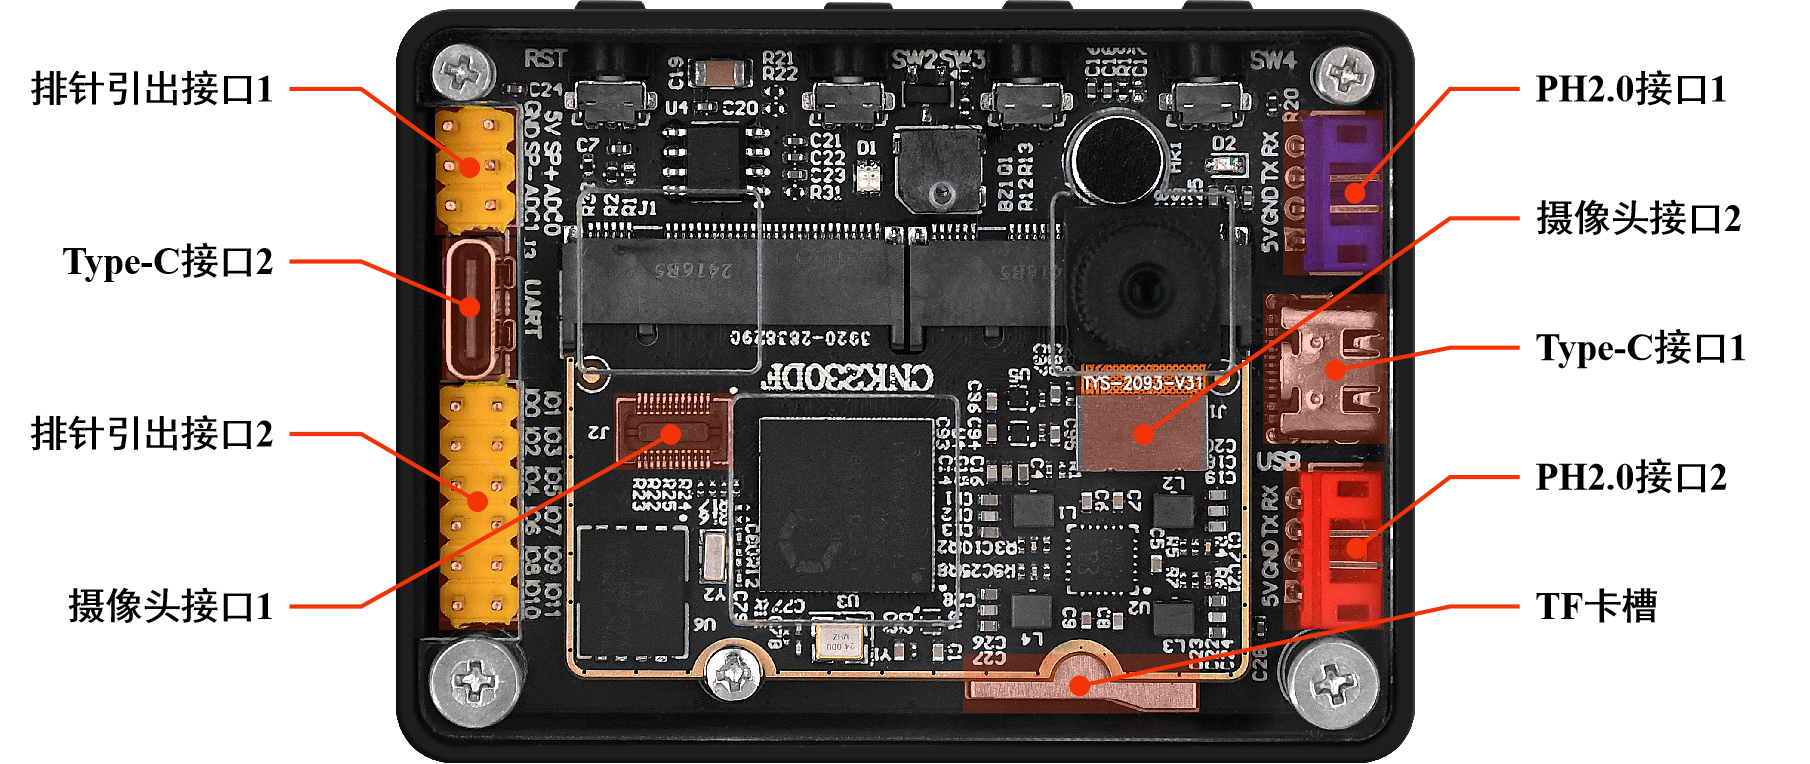
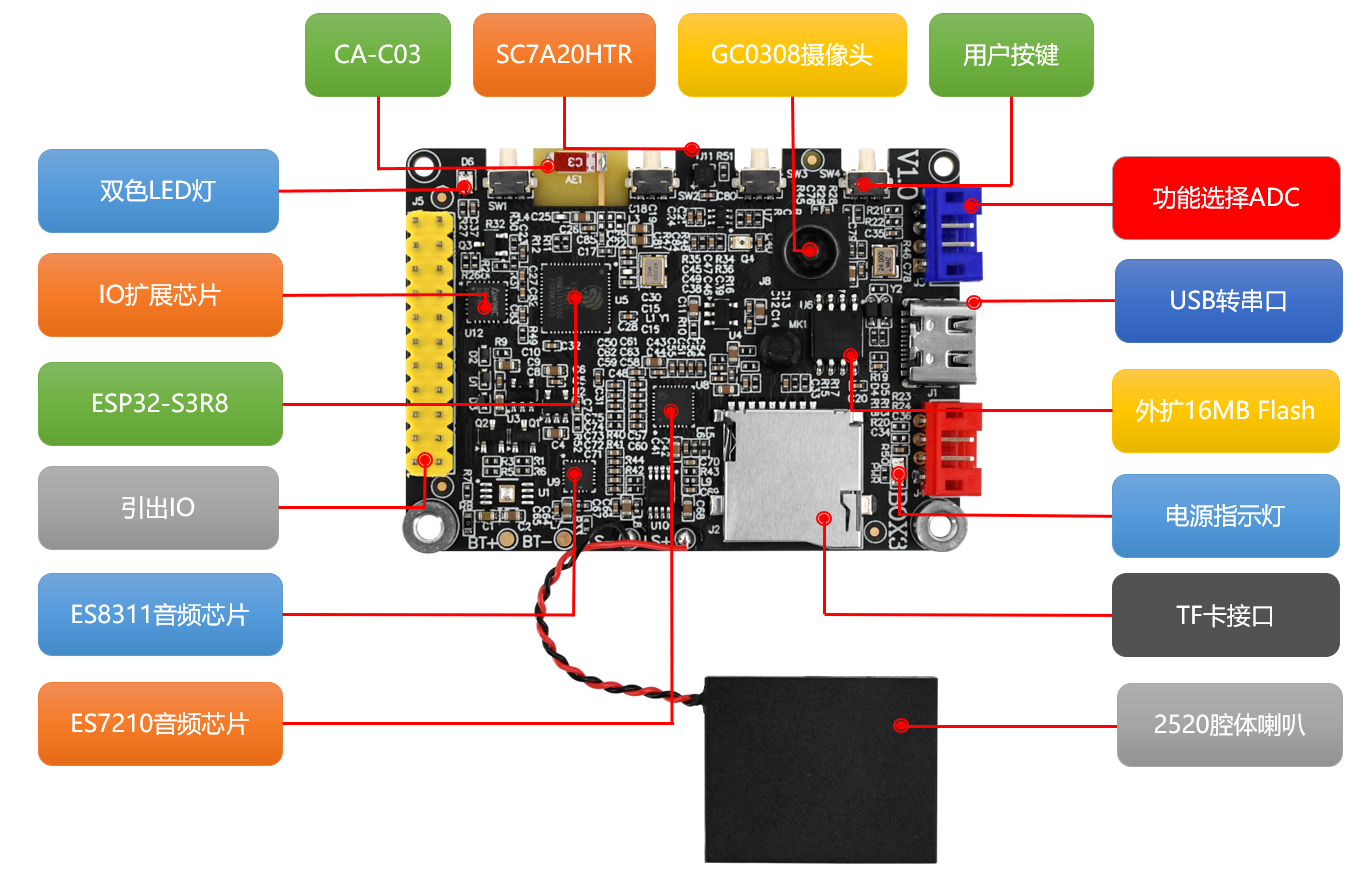
feat:新增硬件资源分布图与硬件资源介绍

diff --git a/start-guide/dnesp32s3-box3-introduction.md b/start-guide/dnesp32s3-box3-introduction.md
@@ -1,6 +1,7 @@
 ---
 title: 'DNESP32S3 BOX3 介绍'
 sidebar_position: 3
+
 ---
 
 # DNESP32S3 BOX3介绍
@@ -21,28 +22,43 @@ DNESP32S3 BOX3整理小巧、美观，其与其内部的底板的三维尺寸如
 | -------------- | ----- | ----- | ----- |
 | DNESP32S3 BOX3 | 64.30 | 47.60 | 15.40 |
 
-## 接口介绍
+## DNESP32S3 BOX3 硬件基本参数
 
-DNESP32S3 BOX3引出了多种接口，方便用户开发和使用
+DNESP32S3 BOX3 硬件基本参数如表所示：
 
-| 接口                       | 描述                                                                         |
-| ------------------------ | -------------------------------------------------------------------------- |
-| Type-C 接口1               | 支持 USB OTG（默认为 Device ）<br />主要用于设备的电源供给以及进行 USB 通讯<br />VSCode 使用该接口与设备连接 |
-| 排针引出接口2                  | 共引出 22 个 GPIO <br />均已做等长处理                                                |
-| 摄像头接口1                   | 分别连接至 DNESP32S3 BOX3 的 摄像头电路，支持如下摄像头：<br />GC0308                          |
-| PH2.0 接口1<br />PH2.0 接口2 | 可对外 5V 供电，并支持 UART、IIC、GPIO 等外设功能<br />                                    |
-| TF 卡槽                    | 用于外接 TF 卡<br />连接至 DNESP32S3 BOX3 的 SD 接口                                  |
+| 项目   | 说明                 |
+| ---- | ------------------ |
+| 产品型号 | ATK-DNESP32S3B3 V1 |
+| 芯片   | ESP32S3-R8         |
+| 工作电压 | 5V（USB）            |
+| 工作电流 | 75mA~276mA（@5V）①   |
+| 工作温度 | 0℃~+70℃            |
 
-## 开发板硬件资源
+注①：75mA 对应 CPU 在复位情况下，裸板的工作电流； 276mA 对应 CPU 满负荷运行时的工作电流。
 
-| 硬件      | 描述                                                                              |
-| ------- | ------------------------------------------------------------------------------- |
-| 复位按键    | 用于对 ESP32S3 芯片进行硬件复位                                                            |
-| 用户按键*3  | 三个用户按键，从左到右依次定义为 KEY0、KEY1、KEY2<br />KEY0连接芯片的普通IO<br />KEY1以及KEY2分别连接至扩展IO扩展芯片 |
-| 触摸屏     | 2.4‘ 高分触摸显示屏（320*240）                                                           |
-| 双色 LED  | 使能后发出红光和/或蓝光<br />有效电平为低                                                        |
-| 咪头      | 作为 DNESP32S3 BOX3 模拟音频接口的音频输入源                                                  |
-| 腔体喇叭    | 作为 DNESP32S3 BOX3 模拟音频接口的音频输出源，额定阻抗8Ω，最大输入功率达1W                                 |
-| 音频功率放大器 | 用于将 DNESP32S3 BOX3 模拟音频接口的输出进行功率放大<br />在驱动 8Ω 扬声器的情况下，可提供高达 3W 的功率输出           |
+## DNESP32S3 BOX3 硬件资源分布
 
+DNESP32S3 BOX3搭载了丰富硬件外设，方便用户开发和使用，其硬件资源分布如下所示(资源介绍不分先后)：
+<img src={require('./img/dnesp32s3-box3-interface.png').default} alt="dnesp32s3 box3 show six back" width="1000" />
 
+| 资源            | 数量  | 说明                                                                         |
+| ------------- | --- | -------------------------------------------------------------------------- |
+| 主控 ESP32S3-R8 | 1个  | Xtensa® 32 位 LX7 双核处理器，主频高达 240MHz<br />384 KB ROM<br />512 KB SRAM        |
+| Flash芯片       | 1个  | 采用华邦的16MB芯片                                                                |
+| 电源指示灯（PWR）    | 1个  | 支持蓝色，上电后常亮                                                                 |
+| 0805红蓝双色LED灯  | 1个  | 支持红蓝双色                                                                     |
+| 复位按键          | 1个  | 用于芯片 & LCD 的复位                                                             |
+| 功能按键          | 3个  | K2（通过IO扩展芯片控制）<br />K1（通过IO扩展芯片控制）<br /> K0（通过主控芯片控制）                      |
+| 音频编解码芯片       | 2个  | ES8311用于输出，ES7210用于采集。该方案用于AEC回声消除（与小智对话可随时通过语音打断）                         |
+| 录音咪头（MIC）     | 1个  | 模拟麦克风，用于录音                                                                 |
+| 功放芯片          | 1个  | NS4150B，将音频信号放大后驱动扬声器发声                                                    |
+| 板载扬声器         | 1个  | 2520腔体喇叭，用于播放音乐或者视频声音                                                      |
+| IO扩展芯片        | 1个  | AW9523BTQR，用于扩展IO引脚                                                        |
+| 三轴传感器         | 1个  | SC7A20H，用于测量翻滚角、 俯仰角等数据                                                    |
+| LCD 接口        | 1个  | 可接正点原子 2.4 寸带触摸 LCD 模块                                                     |
+| Type-C 接口     | 1个  | 支持 USB OTG（默认为 Device ）<br />主要用于设备的电源供给以及进行 USB 通讯<br />VSCode 使用该接口与设备连接 |
+| 排针引出接口        | 1个  | 共引出 22 个 GPIO，均已做等长处理                                                      |
+| 摄像头接口         | 1个  | 分别连接至 DNESP32S3 BOX3 的 摄像头电路，支持如下摄像头：GC0308                                |
+| PH2.0 接口      | 2个  | 可对外 5V 供电，并支持 UART、IIC、GPIO 等外设功能<br />                                    |
+| TF 卡槽         | 1个  | 用于外接 TF 卡<br />连接至 DNESP32S3 BOX3 的 SD 接口                                  |
+| 板载天线          | 1个  | CA-C03 <br />用于释放热点信号与连接WiFi                                               |

diff --git a/example-extension-routine/wifi-mqtt-aliyun.md b/example-extension-routine/wifi-mqtt-aliyun.md
@@ -80,7 +80,7 @@ WIFI MQTT ALIYUN
 :::info[例程功能与硬件资源]
 
 lwIP 连接阿里云实现数据上传至阿里云服务器。
-<br />1，LED(RED) - IO4
+<br />1，LED(RED) - IO1_1
 <br />2，正点原子 2.4 寸LCD屏幕
 <br />3，ESP32-S3 内部 WiFi
 

diff --git a/example-extension-routine/wifi-sta.md b/example-extension-routine/wifi-sta.md
@@ -28,7 +28,7 @@ WIFI STA
 :::info[例程功能与硬件资源]
 
 扫描附近的 WIFI 信号，并连接到一个真实存在的 WIFI 热点。
-<br />1，LED(RED) - IO4
+<br />1，LED(RED) - IO1_1
 <br />2，正点原子 2.4 寸LCD屏幕
 <br />3，ESP32-S3 内部 WiFi
 

diff --git a/example-extension-routine/wifi-tcpclient.md b/example-extension-routine/wifi-tcpclient.md
@@ -36,7 +36,7 @@ WIFI TCPCLIENT
 :::info[例程功能与硬件资源]
 
 本实验主要通过 Socket 编程接口实现了一个 TCPClient 客户端。这个客户端具有以下功能：首先，可以通过按键发送 TCPClient 数据发送至服务器。其次，能够接收服务器发送的数据。最后，实时将接收到的数据显示在 LCD 屏幕上。
-<br />1，LED(RED) - IO4
+<br />1，LED(RED) - IO1_1
 <br />2，正点原子 2.4 寸LCD屏幕
 <br />3，ESP32-S3 内部 WiFi
 

diff --git a/example-extension-routine/wifi-tcpserver.md b/example-extension-routine/wifi-tcpserver.md
@@ -38,7 +38,7 @@ WIFI TCPCLIENT
 :::info[例程功能与硬件资源]
 
 本实验主要通过 Socket 编程接口实现了一个 TCPServer 服务器。这个客户端具有以下功能：首先，可以通过按键发送 TCPServer 数据发送至客户端。其次，能够接收客户端发送的数据。最后，实时将接收到的数据显示在 LCD 屏幕上。
-<br />1，LED(RED) - IO4
+<br />1，LED(RED) - IO1_1
 <br />2，正点原子 2.4 寸LCD屏幕
 <br />3，ESP32-S3 内部 WiFi
 

diff --git a/example-extension-routine/wifi-udp.md b/example-extension-routine/wifi-udp.md
@@ -36,7 +36,7 @@ WIFI UDP
 :::info[例程功能与硬件资源]
 
 本实验主要通过 Socket 编程接口实现了一个 UDP 服务器。这个服务器具有以下功能：首先，可以通过按键发送 UDP 广播数据给其他 UDP 客户端。其次，能够接收其他 UDP 客户端发送的广播数据。最后，实时将接收到的数据显示在 LCD 屏幕上。
-<br />1，LED(RED) - IO4
+<br />1，LED(RED) - IO1_1
 <br />2，正点原子 2.4 寸LCD屏幕
 <br />3，ESP32-S3 内部 WiFi
 